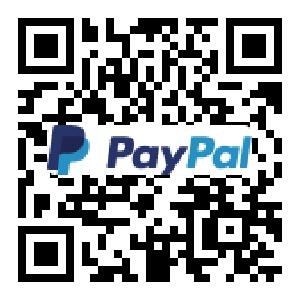
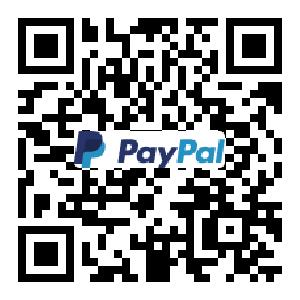
Update QR Code

Changed region(s): [[0.15, 0.39, 0.84, 0.6]]

diff --git a/src/main/java/com/app/flight/controller/PaymentController.java b/src/main/java/com/app/flight/controller/PaymentController.java
@@ -7,7 +7,6 @@ import cn.hutool.extra.qrcode.QrConfig;
 import com.alibaba.fastjson2.JSON;
 import com.app.flight.Main;
 import com.app.flight.entity.Food;
-import com.app.flight.entity.Reservation;
 import com.app.flight.util.Json;
 import com.google.zxing.qrcode.decoder.ErrorCorrectionLevel;
 import javafx.application.Platform;
@@ -28,6 +27,11 @@ import java.io.IOException;
 
 public class PaymentController {
 
+    public static final String QR_CODE_PATH = "src/main/resources/com/app/flight/image/QR_Code/QR.jpg";
+    public static final String PAYPAL_IMAGE_PATH = "src/main/resources/com/app/flight/image/QR_Code/PaypalLogo.png";
+    public static final String PAYPAL_SITE = "https://www.paypal.com/ph/signin";
+    public static final String ALIPAY_IMAGE_PATH = "src/main/resources/com/app/flight/image/QR_Code/AlipayLogo.png";
+    public static final String ALIPAY_SITE = "https://auth.alipay.com/login/index.htm";
     @FXML
     public Button finish;
     public Button help;
@@ -45,18 +49,13 @@ public class PaymentController {
     @FXML
     private Label foodPrice;
 
-    public static final String QR_CODE_PATH = "src/main/resources/com/app/flight/image/QR_Code/QR.jpg";
-    public static final String PAYPAL_IMAGE_PATH = "src/main/resources/com/app/flight/image/QR_Code/PaypalLogo.png";
-    public static final String PAYPAL_SITE = "https://www.paypal.com/ph/signin";
-    public static final String ALIPAY_IMAGE_PATH = "src/main/resources/com/app/flight/image/QR_Code/AlipayLogo.png";
-    public static final String ALIPAY_SITE = "https://auth.alipay.com/login/index.htm";
-
-
     private void generateQRCode(String url, String path) {
         QrConfig config = new QrConfig(300, 300);
         config.setErrorCorrection(ErrorCorrectionLevel.H);
+        config.setMargin(1);
         config.setImg(new File(path));
-        QrCodeUtil.generate(//
+        config.setRatio(8);
+        QrCodeUtil.generate(
                 url, //二维码内容
                 config,//附带logo
                 FileUtil.newFile(QR_CODE_PATH)//写出到的文件
@@ -71,9 +70,9 @@ public class PaymentController {
         String foodString = Json.extractJsonData(Json.FOOD_JSON_PATH);
         Food food = JSON.parseObject(foodString, Food.class);
         double fPrice = food.getFoodPrice();
-        String reservationStr = Json.extractJsonData(Json.RESERVATION_JSON_PATH);
-        Reservation reservation = JSON.parseObject(reservationStr, Reservation.class);
-        //int price = reservation.getSeatLevel().getPrice();
+//        String reservationStr = Json.extractJsonData(Json.RESERVATION_JSON_PATH);
+//        Reservation reservation = JSON.parseObject(reservationStr, Reservation.class);
+//        int price = reservation.getSeatLevel().getPrice();
         seatPrice.setText("None");
         foodPrice.setText("￡" + fPrice);
 
